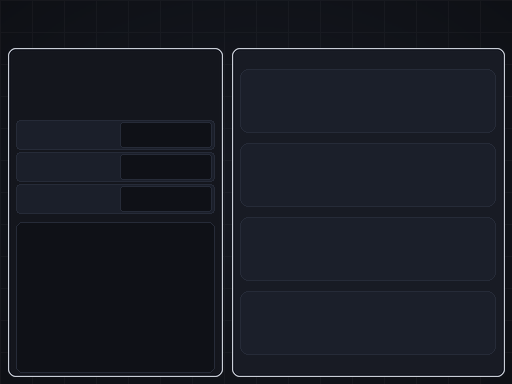
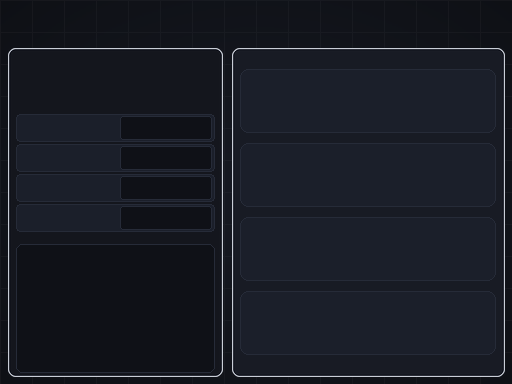
Carga y guardado con sprite del mapa y datos corregidos, opciones por defecto, huecos de ataque sin insignia y fila Tipo en el detalle

Changed region(s): [[0.2188, 0.4375, 0.4375, 0.625], [0.2188, 0.2812, 0.4375, 0.4062], [0.0312, 0.5938, 0.0625, 0.6562]]

diff --git a/tools/scripts_dump/rem_ui.rb b/tools/scripts_dump/rem_ui.rb
@@ -836,14 +836,13 @@ class PokemonSummaryScene
     REM_UI.borderRect(overlay,240,y0,495,y0+REM_UI::SUM_SLOT_H-1,move.id>0 ? REM_UI.dim(REM_UI.typeColor(move.type),0.85) : Color.new(46,52,68))
     cy=y0+REM_UI::SUM_SLOT_H/2
     if move.id>0
-      overlay.blt(250,cy-14,@typebitmap.bitmap,Rect.new(0,move.type*28,64,28))
-      textlist.push([:c,PBMoves.getName(move.id),322,cy,0,REM_UI::WHITE,30,88])
+      textlist.push([:c,PBMoves.getName(move.id),258,cy,0,REM_UI::WHITE,30,190])
       if move.totalpp>0
         pcol=(move.pp==0) ? REM_UI::UPC : REM_UI::WHITE
         textlist.push([:c,sprintf("PP %d/%d",move.pp,move.totalpp),486,cy,1,pcol,26,74])
       end
     else
-      textlist.push([:c,"-",322,cy,0,REM_UI::DIM,30,40])
+      textlist.push([:c,"-",258,cy,0,REM_UI::DIM,30,40])
     end
   end
 
@@ -872,16 +871,18 @@ class PokemonSummaryScene
     overlay=drawMoveSelection(pokemon,moveToLearn)
     pw=(category==2 || basedamage<=0) ? "-" : (basedamage==1 ? "???" : sprintf("%d",basedamage))
     ac=(accuracy==0) ? "-" : sprintf("%d%%",accuracy)
-    REM_UI.texts(overlay,[[pw,166,155,2,REM_UI::WHITE,24,84],[ac,166,187,2,REM_UI::WHITE,24,84]])
+    # filas 114,144,174,204 (28 px): Tipo, Categoría, Potencia, Precisión
+    overlay.blt(134,114,@typebitmap.bitmap,Rect.new(0,movedata.type*28,64,28))
     icons=AnimatedBitmap.new("Graphics/Pictures/category")
-    overlay.blt(134,121,icons.bitmap,Rect.new(0,category*28,64,28))
+    overlay.blt(134,144,icons.bitmap,Rect.new(0,category*28,64,28))
     icons.dispose
+    REM_UI.texts(overlay,[[:c,pw,166,188,2,REM_UI::WHITE,24,84],[:c,ac,166,218,2,REM_UI::WHITE,24,84]])
     pbSetNarrowFont(overlay); overlay.font.size=21
     lines=REM_UI.wrap(overlay,pbGetMessage(MessageTypes::MoveDescriptions,moveid),186)
     lines=lines[0,5]
     textpos=[]
     for i in 0...lines.length
-      textpos.push([lines[i],24,229+i*28,0,REM_UI::WHITE,21])
+      textpos.push([lines[i],24,252+i*23,0,REM_UI::WHITE,21])
     end
     REM_UI.texts(overlay,textpos)
   end
@@ -892,9 +893,10 @@ class PokemonSummaryScene
     @sprites["background"].setBitmap("Graphics/Pictures/summary4details")
     @sprites["background"].setBitmap("Graphics/Pictures/summary4learning") if moveToLearn!=0
     textlist=[[_INTL("MOVIMIENTOS"),18,12,0,REM_UI::WHITE,28],
-              [_INTL("Categoría"),24,122,0,REM_UI::LABEL,20,100],
-              [_INTL("Potencia"),24,154,0,REM_UI::LABEL,20,100],
-              [_INTL("Precisión"),24,186,0,REM_UI::LABEL,20,100]]
+              [:c,_INTL("Tipo"),24,128,0,REM_UI::LABEL,20,90],
+              [:c,_INTL("Categoría"),24,158,0,REM_UI::LABEL,20,90],
+              [:c,_INTL("Potencia"),24,188,0,REM_UI::LABEL,20,90],
+              [:c,_INTL("Precisión"),24,218,0,REM_UI::LABEL,20,90]]
     if pokemon.type1==pokemon.type2
       overlay.blt(117,78,@typebitmap.bitmap,Rect.new(0,pokemon.type1*28,64,28))
     else
@@ -1783,7 +1785,11 @@ class PokemonSystem
   alias rem_orig_initialize initialize
   def initialize
     rem_orig_initialize
-    @battlestyle=1   # Fijo por defecto
+    @textspeed=2     # Rápida
+    @battlescene=0   # Animación de combate: Sí
+    @battlestyle=1   # Fijo
+    @bgmvolume=100
+    @sevolume=100
   end
 end
 
@@ -2074,35 +2080,73 @@ class PokemonLoadPanel
         for sp in 1..REM_UI::DEX_MAX
           owned+=1 if @trainer.owned[sp]
         end
-        # retrato del entrenador centrado en su marco (14,46)-(110,160)
-        file=(pbPlayerSpriteFile(@trainer.trainertype) rescue nil)
-        img=(file ? (pbBitmap(file) rescue nil) : nil)
-        if img
-          z=[1.0,88.0/img.width,104.0/img.height].min
-          dw=(img.width*z).round; dh=(img.height*z).round
-          bmp.stretch_blt(Rect.new(62-dw/2,103-dh/2,dw,dh),img,Rect.new(0,0,img.width,img.height))
-        end
         REM_UI.texts(bmp,[
            [:c,_INTL("Partida Guardada"),16,21,0,wh,26,200],
            [:c,mapname,392,21,1,Color.new(214,219,228),22,180],
            [:c,@trainer.name,62,178,2,wh,26,100],
-           [:c,_INTL("Tiempo"),128,52,0,lb,18,110],
-           [:c,_ISPRINTF("{1:02d}:{2:02d}",hour,min),187,76,2,wh,26,116],
-           [:c,_INTL("Medallas"),128,106,0,lb,18,110],
-           [:c,@trainer.numbadges.to_s,134,130,0,wh,26,24],
-           [:c,_INTL("Dinero"),266,52,0,lb,18,110],
-           [:c,_INTL("${1}",@trainer.money),328,76,2,wh,26,122],
-           [:c,_INTL("Pokédex"),266,106,0,lb,18,110],
-           [:c,_ISPRINTF("{1}/{2}",owned,REM_UI::DEX_MAX),328,130,2,wh,26,122]])
-        for i in 0...8   # 8 casillas de medalla: llenas las ganadas
-          on=(i<@trainer.numbadges)
-          REM_UI.slotBox(bmp,164+i*11,126,8,8,on ? Color.new(226,244,255) : Color.new(54,60,78),on ? REM_UI::SILVER : Color.new(54,60,78),1)
-        end
+           [:c,_INTL("Tiempo"),132,76,0,lb,20,52],
+           [:c,sprintf("%02d:%02d",hour,min),244,76,1,wh,26,66],
+           [:c,_INTL("Medallas"),132,130,0,lb,20,56],
+           [:c,sprintf("%d/8",@trainer.numbadges),244,130,1,wh,26,52],
+           [:c,_INTL("Dinero"),270,76,0,lb,20,46],
+           [:c,_INTL("${1}",@trainer.money),388,76,1,wh,26,70],
+           [:c,_INTL("Pokédex"),270,130,0,lb,20,52],
+           [:c,sprintf("%d/%d",owned,REM_UI::DEX_MAX),388,130,1,wh,26,64]])
       else
         bmp.blt(0,0,@bgbitmap.bitmap,Rect.new(0,111*2*2+(@selected ? 23*2 : 0),@bgbitmap.width,23*2))
         REM_UI.texts(bmp,[[:c,@title,204,23,2,wh,28,360]])
       end
     end
     @refreshing=false
+  end
+end
+
+#-------------------------------------------------------------------------------
+# PANTALLA DE GUARDADO EN EL MUNDO: misma tarjeta obsidiana que la de carga, con el sprite del mapa
+#-------------------------------------------------------------------------------
+class PokemonSaveScene
+  def pbStartScreen
+    @viewport=Viewport.new(0,0,Graphics.width,Graphics.height)
+    @viewport.z=99999
+    @sprites={}
+    totalsec=Graphics.frame_count/Graphics.frame_rate
+    hour=totalsec/60/60
+    min=totalsec/60%60
+    owned=0
+    if $Trainer.pokedex
+      for sp in 1..REM_UI::DEX_MAX
+        owned+=1 if $Trainer.owned[sp]
+      end
+    end
+    @sprites["card"]=BitmapSprite.new(262,156,@viewport)
+    @sprites["card"].x=6; @sprites["card"].y=6
+    bmp=@sprites["card"].bitmap
+    REM_UI.slotBox(bmp,0,0,262,156,Color.new(20,22,29),REM_UI::SILVER,1)
+    REM_UI.slotBox(bmp,3,3,256,150,Color.new(20,22,29),Color.new(30,34,45),1)
+    REM_UI.slotBox(bmp,6,6,250,28,Color.new(24,27,36),Color.new(24,27,36),1)
+    REM_UI.slotBox(bmp,12,40,68,108,Color.new(15,17,23),Color.new(38,43,56),1)
+    for i in 0...4
+      REM_UI.slotBox(bmp,88,40+i*28,164,26,Color.new(27,31,42),Color.new(38,43,56),1)
+    end
+    wh=REM_UI::WHITE; lb=REM_UI::LABEL
+    REM_UI.texts(bmp,[
+       [:c,$game_map.name,131,20,2,Color.new(214,219,228),24,236],
+       [:c,_INTL("Jugador"),96,53,0,lb,20,56],[:c,$Trainer.name,244,53,1,wh,24,90],
+       [:c,_INTL("Tiempo"),96,81,0,lb,20,56],[:c,sprintf("%02d:%02d",hour,min),244,81,1,wh,24,90],
+       [:c,_INTL("Medallas"),96,109,0,lb,20,60],[:c,sprintf("%d/8",$Trainer.numbadges),244,109,1,wh,24,80],
+       [:c,_INTL("Pokédex"),96,137,0,lb,20,60],[:c,sprintf("%d/%d",owned,REM_UI::DEX_MAX),244,137,1,wh,24,80]])
+    meta=pbGetMetadata(0,MetadataPlayerA+$Trainer.metaID)
+    if meta
+      filename=pbGetPlayerCharset(meta,1,$Trainer)
+      @sprites["player"]=TrainerWalkingCharSprite.new(filename,@viewport)
+      cw=@sprites["player"].bitmap.width
+      ch=@sprites["player"].bitmap.height
+      @sprites["player"].src_rect=Rect.new(0,0,cw/4,ch/4)
+      @sprites["player"].zoom_x=2.0
+      @sprites["player"].zoom_y=2.0
+      @sprites["player"].x=6+46-cw/4
+      @sprites["player"].y=6+94-ch/4
+      @sprites["player"].z=2
+    end
   end
 end

diff --git a/tools/scripts_dump/src/141_PScreen_Load.rb b/tools/scripts_dump/src/141_PScreen_Load.rb
@@ -159,14 +159,16 @@ class PokemonLoadScene
   def pbSetParty(trainer)
     return if !trainer || !trainer.party
     meta=pbGetMetadata(0,MetadataPlayerA+trainer.metaID)
-    if false && meta   # REM_UI: el retrato va dentro de la tarjeta
+    if meta
       filename=pbGetPlayerCharset(meta,1,trainer)
       @sprites["player"]=TrainerWalkingCharSprite.new(filename,@viewport)
       charwidth=@sprites["player"].bitmap.width
       charheight=@sprites["player"].bitmap.height
-      @sprites["player"].x = 48+72 - charwidth/8   # REM_UI: columna izquierda de la tarjeta
-      @sprites["player"].y = 32+96 - charheight/8
       @sprites["player"].src_rect = Rect.new(0,0,charwidth/4,charheight/4)
+      @sprites["player"].zoom_x=2.0   # REM_UI: sprite del mapa ampliado, centrado en el marco del retrato
+      @sprites["player"].zoom_y=2.0
+      @sprites["player"].x = 48+62 - charwidth/4
+      @sprites["player"].y = 32+103 - charheight/4
     end
     for i in 0...trainer.party.length
       @sprites["party#{i}"]=PokemonIconSprite.new(trainer.party[i],@viewport)

diff --git a/tools/ui/gen_menus_noir.py b/tools/ui/gen_menus_noir.py
@@ -62,7 +62,7 @@ def loadscreen():
             S.box(p, (6, 6, W - 7, 36), hexc("181B24"), None, 5)                        # tira superior
             S.box(p, (14, 46, 110, 160), S.WELL, S.DIV, 6)                              # retrato
             for (x0, y0, x1, y1) in ((124, 62, 250, 90), (124, 116, 250, 144), (262, 62, 394, 90), (262, 116, 394, 144)):
-                S.box(p, (x0, y0, x1, y1), S.WELL, S.DIV, 5)                            # valores
+                S.box(p, (x0, y0, x1, y1), S.WELL, S.DIV, 5)                            # celdas: etiqueta + valor
             S.box(p, (118, 150, 394, 208), hexc("12141B"), S.DIV, 6)                    # fila del equipo
             for i in range(6):
                 S.box(p, (122 + 46 * i, 154, 163 + 46 * i, 204), hexc("1B1F2A"), None, 8)  # píldoras

diff --git a/tools/ui/gen_summary_noir.py b/tools/ui/gen_summary_noir.py
@@ -127,8 +127,8 @@ def details(learning):
     im = base_bg(); card(im, CARD)
     panel(im, (232, 8 if learning else 48, 504, 376))
     d = ImageDraw.Draw(im, "RGBA")
-    for i in range(3): row_box(im, 16, 120 + 32 * i, 214, 30, 104)
-    box(im, (16, 222, 214, 372), WELL, DIV, 6)
+    for i in range(4): row_box(im, 16, 114 + 30 * i, 214, 28, 104)       # Tipo, Categoría, Potencia, Precisión
+    box(im, (16, 244, 214, 372), WELL, DIV, 6)
     ys = ([LEARN_Y0 + LEARN_P * i for i in range(4)] + [LEARN_Y5]) if learning else [SLOT_Y0 + SLOT_P * i for i in range(4)]
     slots(im, ys)
     save(im, "summary4learning" if learning else "summary4details")
